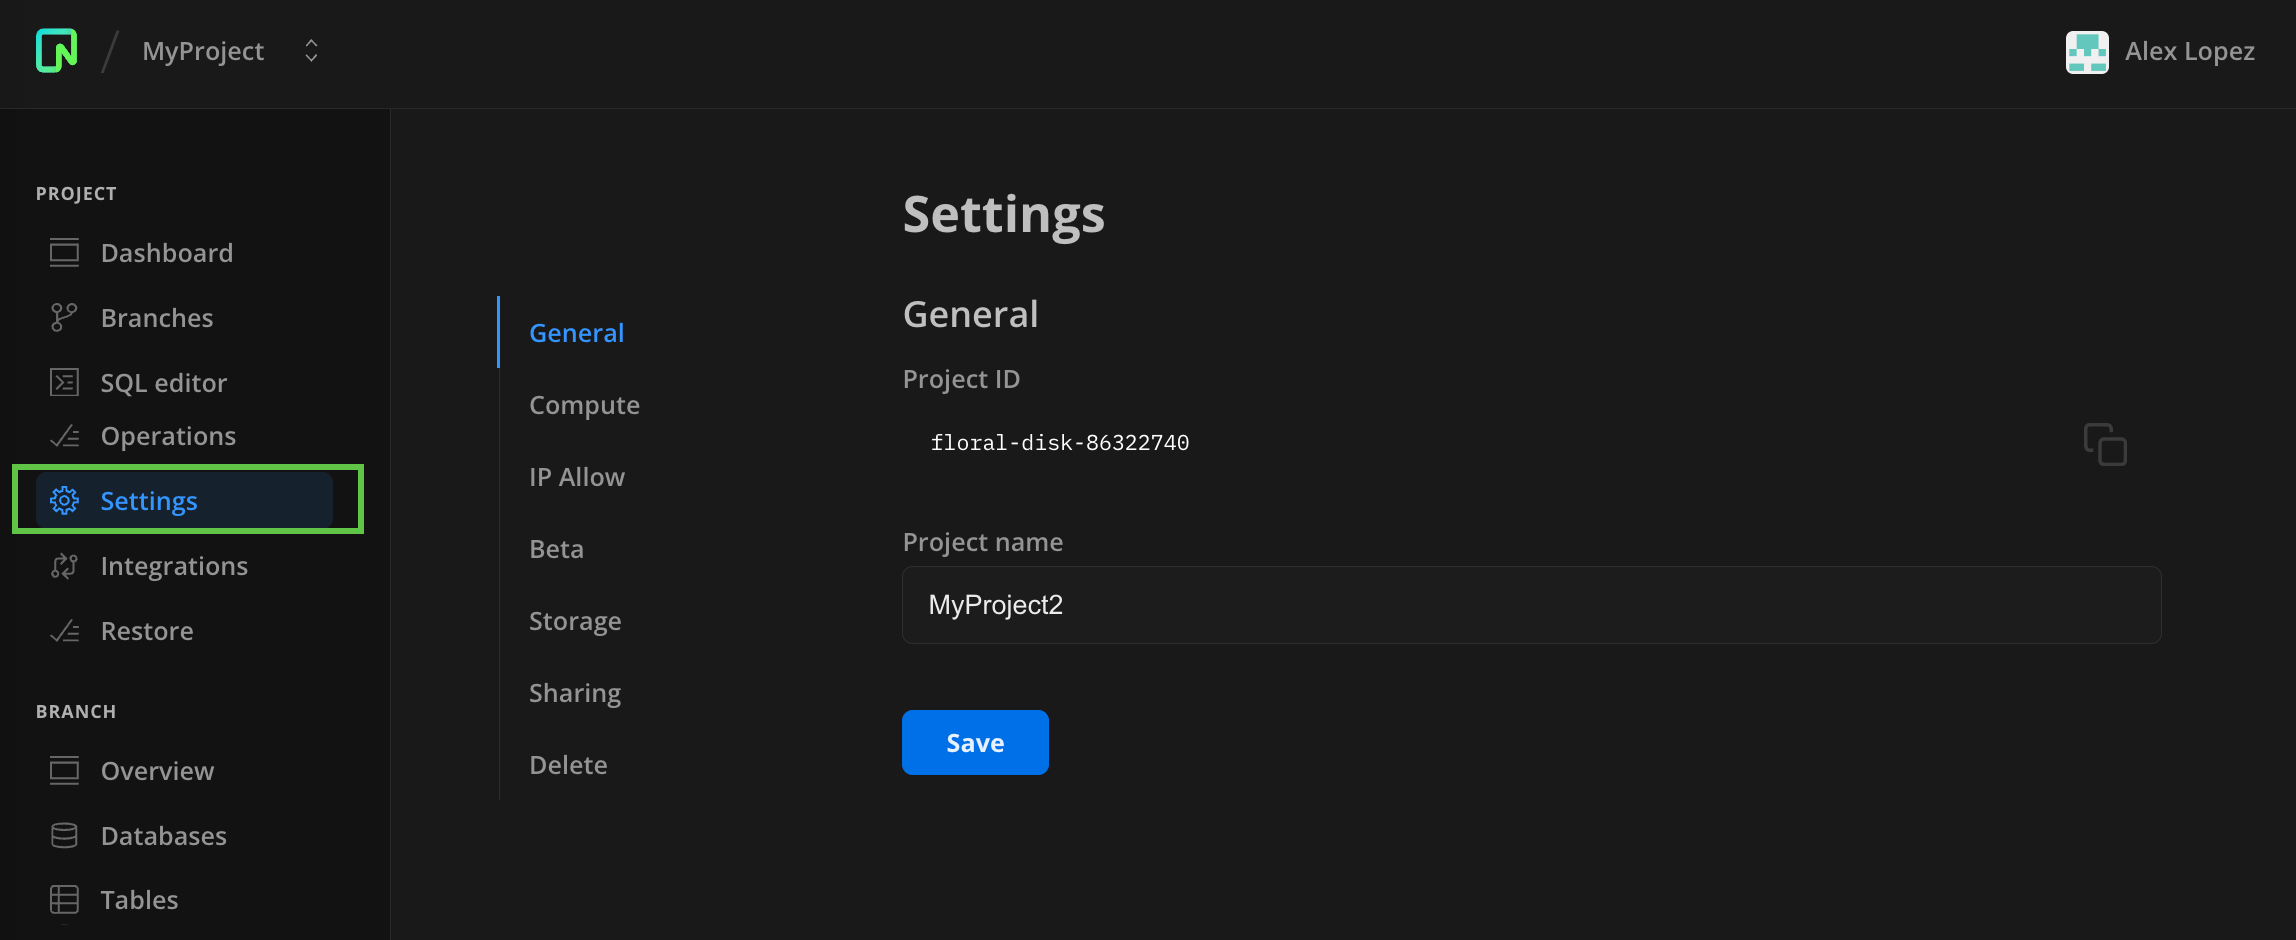
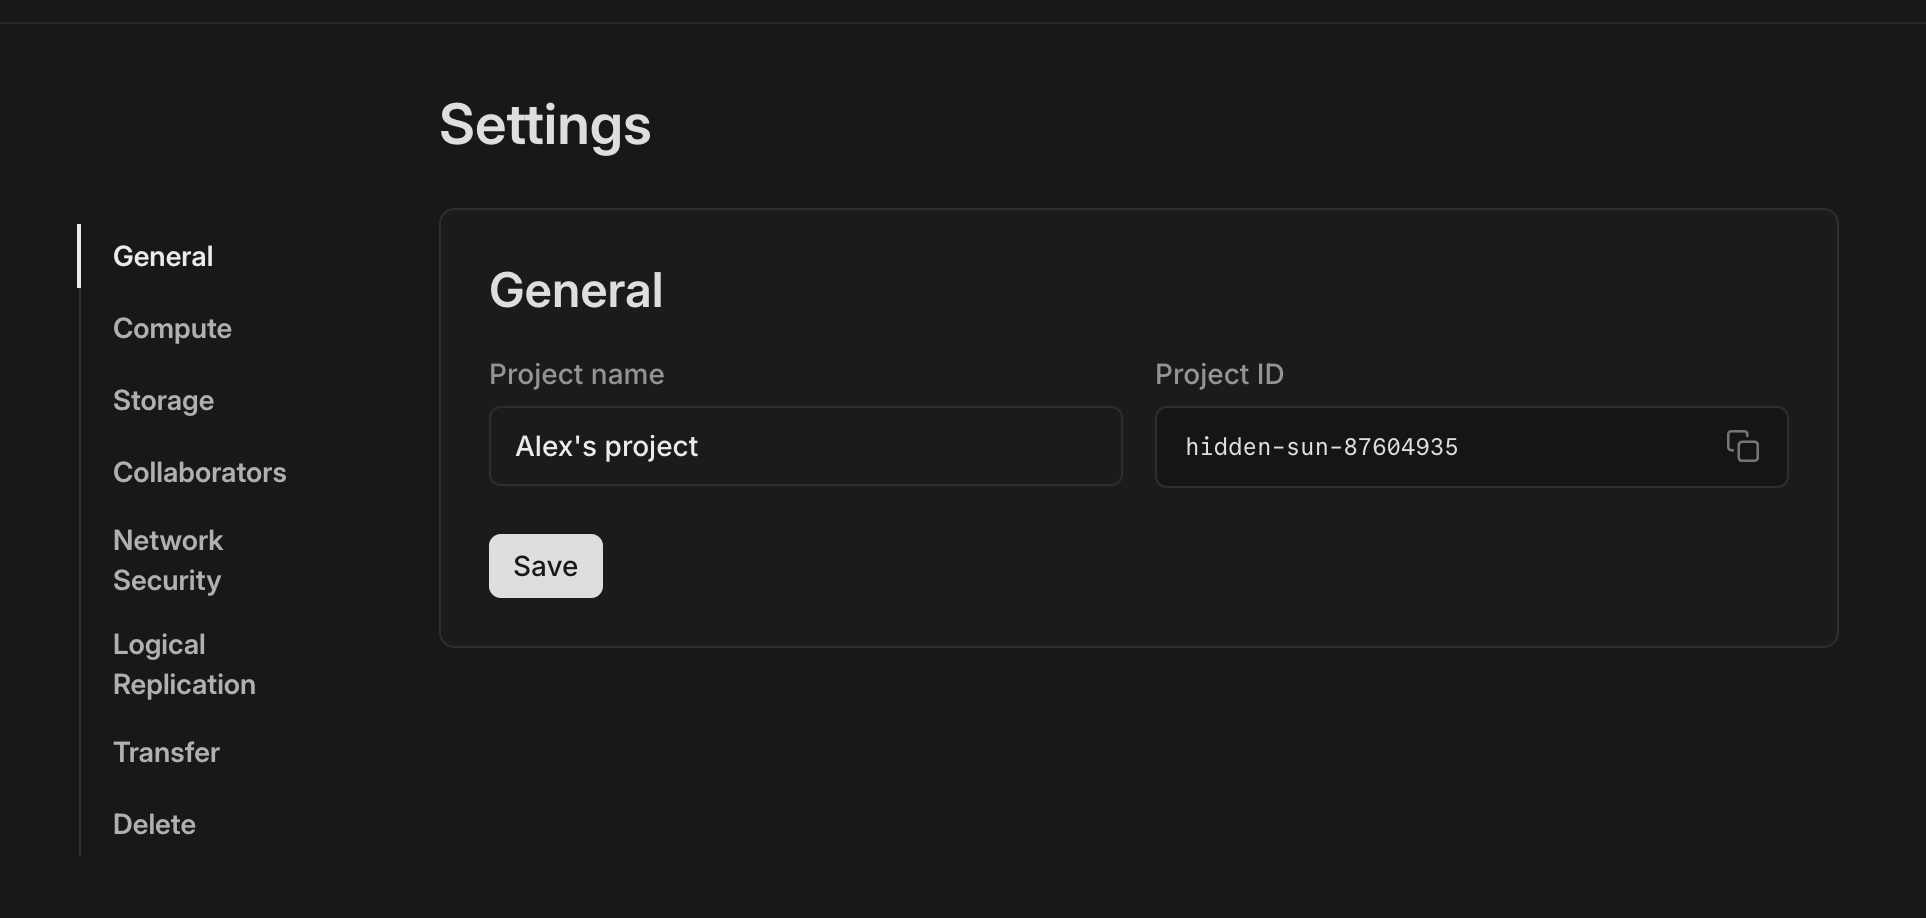
docs: project page update

diff --git a/content/docs/manage/projects.md b/content/docs/manage/projects.md
@@ -8,15 +8,7 @@ redirectFrom:
 updatedOn: '2024-12-13T21:17:10.767Z'
 ---
 
-With Neon, everything starts with the project. It is the top-level object in the [Neon object hierarchy](/docs/manage/overview). A project can hold as many databases and branches as your application or workflow needs. However, [plan limits](/docs/introduction/plans) define how many projects you can create.
-
-Learn more about projects and how to manage them in these sections:
-
-- [Default resources](#default-resources)
-- [Project Settings](#about-the-settings-page)
-- [Basic actions](#basic-actions)
-- [Advanced settings](#advanced-settings)
-- [Manage projects from the API](#manage-projects-with-the-neon-api)
+With Neon, everything starts with the project. It is the top-level object in the [Neon object hierarchy](/docs/manage/overview). A project can hold as many branches, databases, and roles as your application or workflow needs. Your [Neon Plan](/docs/introduction/plans) determines how many projects you can create and resource limits within those projects.
 
 ## Default resources
 
@@ -24,139 +16,71 @@ When you add a new project, Neon creates the following resources by default:
 
 - A default branch called `main`. You can create child branches from the default branch or from any previously created branch. For more information, see [Manage branches](/docs/manage/branches).
 - A single primary read-write compute. This is the compute associated with the branch. For more information, see [Manage computes](/docs/manage/endpoints).
-- A Postgres database that resides on the project's default branch. If you ddid not specify your own database name when creating the project, the database created is named `neondb`.
+- A Postgres database that resides on the project's default branch. If you did not specify your own database name when creating the project, the database created is named `neondb`.
 - A Postgres role that is named for your database. For example, if your database is named `neondb`, the project is created with a default role named `neondb_owner`.
 
-## About the Settings page
+## Create a project
 
-Once you open a project, you can use the **Settings** page to manage that particular project and configure any defaults.
-
-![Project Settings page](/docs/manage/settings_page.png)
-
-You can tab between these sections:
-
-- **General** &#8212; Change the name of your project or copy the project ID.
-- **Compute** &#8212; Set the scale to zero and sizing defaults for any new computes you create when branching.
-- **Storage** &#8212; Choose how long Neon maintains a history of changes for all branches.
-- **Sharing** &#8212; Let other users access your project's databases.
-- **Delete** &#8212; Use with care! This action deletes your entire project and all its objects, and is irreversible.
-
-## Basic actions
-
-Here are some basic actions you can take to add or manage projects:
-
-- [Create a project](#create-a-project)
-- [View projects](#view-projects)
-- [Change a project name](#change-the-name-or-copy-the-id-of-your-project)
-- [Delete a project](#delete-a-project)
-- [Invite collaborators to a project](#invite-collaborators-to-a-project)
-
-### Create a project
-
-The following instructions describe how to create additional Neon projects. If you are creating your very first Neon project, refer to the instructions in [Sign up](/docs/get-started-with-neon/signing-up).
+The following instructions describe how to create additional Neon projects. If you are creating your very first Neon project, refer to the instructions in [Playing with Neon](/docs/get-started-with-neon/signing-up).
 
 To create a Neon project:
 
 1. Navigate to the [Neon Console](https://console.neon.tech).
 2. Click **New Project**.
-3. Specify values for **Project Name**, **Postgres version**, **Cloud Service Provider**, and **Region**. Project names are limited to 64 characters. If you are a paying user, you can specify **Compute size** settings when creating a project. The settings you specify become the default settings for computes that you add to your project when creating [branches](/docs/manage/branches#create-a-branch) or [read replicas](/docs/guides/read-replica-guide).
+3. Specify values for **Project Name**, **Postgres version**, **Cloud Service Provider**, and **Region**. Project names are limited to 64 characters. You can also specify **Compute size** settings when creating a project. The settings you specify become the default settings for computes that you add to your project when creating [branches](/docs/manage/branches#create-a-branch) or [read replicas](/docs/guides/read-replica-guide).
 
    - Neon supports fixed-size computes and autoscaling. For more information, see [Compute size and autoscaling configuration](/docs/manage/endpoints#compute-size-and-autoscaling-configuration).
    - The scale to zero setting determines whether a compute is automatically suspended after a period of inactivity. For more information, see [Scale to zero configuration](/docs/manage/endpoints#scale-to-zero-configuration).
 
-4. Optionally, select **More options** to specify a name for your default branch. The default name is `main`.
-5. Click **Create Project**.
+4. Click **Create Project**.
 
-After creating a project, you are presented with a dialog that provides your connection details for your database. The connection details include your password.
+After creating a project, you are directed to the Neon Quickstart.
 
 <Admonition type="tip">
-Similar to **docs.new** for instantly creating Google Docs or **repo.new** for adding new GitHub repositories, you can use [pg.new](https://pg.new) to create a new Neon Postgres project. Simply visit [pg.new](https://pg.new) and you'll be taken straight to the **Create project** page where you can create your new project.
+Similar to **docs.new** for instantly creating Google Docs or **repo.new** for adding new GitHub repositories, you can use [pg.new](https://pg.new) to create a new Neon Postgres project. Simply visit [pg.new](https://pg.new) and you'll be taken directly to the **Create project** page where you can create your new project.
 </Admonition>
 
-### View projects
+## View projects
 
 To view your projects:
 
 1. Navigate to the [Neon Console](https://console.neon.tech).
-1. Select **Home** or the Neon logo at the top left of the Console.
+1. From the breadcrumb navigation menu at the top-left of the console, select your personal or organization account.
 1. The **Projects** page lists your projects, including any projects that have been shared with you.
 
-### Change the name or copy the ID of your project
+## Project settings
 
-You are permitted to change the name of your project at any point. The project ID is permanent.
+Once you open a project, you can use the **Settings** page to manage your project and configure any defaults.
 
-To edit a Neon project:
+![Project Settings page](/docs/manage/settings_page.png)
 
-1. Navigate to the [Neon Console](https://console.neon.tech).
-2. Select the project that you want to edit.
-3. Select **Settings**.
-4. Select **General**.
-5. Make your changes and click **Save**.
+The **Settings** page includes these sub-pages:
 
-### Delete a project
+- **General** — Change the name of your project or copy the project ID.
+- **Compute** — Set the scale to zero and sizing defaults for any new computes you create when branching.
+- **Storage** — Choose how long Neon maintains a history of changes for all branches.
+- **Collaborators** — Let other users access your project's databases.
+- **Network Security** — Configure Neon's IP and Private Networking features for secure access.
+- **Logical Replication** — Enable logical replication to replicate data from your Neon project to external data services and platforms.
+- **Transfer** — Transfer your project from a personal account to a Neon organization you are a member of.
+- **Delete** — Use with care! This action deletes your entire project and all its objects, and is irreversible.
 
-Deleting a project is a permanent action, which also deletes any computes, branches, databases, and roles that belong to the project.
+### General project settings
 
-To delete a project:
+On the **General** page, you are permitted to change the name of your project or copy the project ID. The project ID is permanent and cannot be changed.
 
-1. Navigate to the [Neon Console](https://console.neon.tech).
-2. Select the project that you want to delete.
-3. Select **Project settings**.
-4. Select **Delete**.
-5. Click **Delete project.**
-6. On the confirmation dialog, click **Delete**.
+### Change your project's default compute settings
 
-<Admonition type="important">
-If you are any of Neon's paid plans, such as our Launch or Scale plan, deleting all your Neon projects won't stop monthly billing. To avoid charges, you also need to downgrade to the Free plan. You can do so from the [Billing](https://console.neon.tech/app/billing#change_plan) page in the Neon Console.
-</Admonition>
-
-### Invite collaborators to a project
-
-Neon's project collaboration feature allows you to invite external Neon accounts to collaborate on a Neon project.
-
-<Admonition type="note">
-Organization members cannot be added as collaborators to organization-owned projects since they already have access to all projects through their organization membership.
-</Admonition>
-
-To invite collaborators to a Neon project:
-
-1. In the Neon Console, select a project.
-1. Select **Project settings**.
-1. Select **Collaborators**.
-1. Select **Invite** and enter the email address of the account you want to collaborate with.
-1. Click **Invite**.
-
-The email you specify is added to the list of **Collaborators**. The Neon account associated with that email address is granted full access to the project, with the exception of privileges required to delete the project. This account can also invite other Neon users to the project. When that user logs in to Neon, the project they were invited to is listed on their **Projects** page under **Shared with you**.
-
-The costs associated with projects being collaborated on are charged to the Neon account that owns the project. For example, if you invite another Neon user account to a project you own, any usage incurred by that user within your project is billed to your Neon account, not theirs.
-
-For additional information, refer to our [Project collaboration guide](/docs/guides/project-collaboration-guide).
-
-## Advanced settings
-
-From the **Project settings** page, you can also set defaults or apply bulk changes across your Neon objects:
-
-- [Reset default compute size](#reset-the-default-compute-size)
-- [Configure history retention range](#configure-history-retention)
-- [Enable logical replication](#enable-logical-replication)
-- [Configure IP Allow](#configure-ip-allow)
-
-### Reset the default compute size
+You can change your project's default compute settings on the **Compute** page. 
 
 _Compute size_ is the number of Compute Units (CUs) assigned to a Neon compute. The number of CUs determines the processing capacity of the compute. One CU is equal to 1 vCPU with 4 GB of RAM. Currently, a Neon compute can have anywhere from .25 CUs to 56 CUs. Larger compute sizes will be supported in a future release.
 
-By default, new branches inherit the compute size from your first branch (i.e., `main`). However, there may be times when you want to reset this default. For example, if you want to create read replica computes, where each replica requires less compute per branch.
-
-To reset the default compute size, go to **Settings** > **Compute**.
+By default, new branches inherit the compute size from your first branch (i.e., `main`). However, there may be times when you want to configure this default.
 
 Neon supports fixed-size and autoscaling compute configurations.
 
 - **Fixed size:** Select a fixed compute size ranging from .25 CUs to 56 CUs. A fixed-size compute does not scale to meet workload demand.
 - **Autoscaling:** Specify a minimum and maximum compute size. Neon scales the compute size up and down within the selected compute size boundaries in response to the current load. Currently, the _Autoscaling_ feature supports a range of 1/4 (.25) CU to 16 CUs. The 1/4 CU and 1/2 CU settings are _shared compute_. For information about how Neon implements the _Autoscaling_ feature, see [Autoscaling](/docs/introduction/autoscaling).
-
-_Example: default minimum and maximum autoscale settings_
-
-![Default autoscaling min and max](/docs/manage/default_autoscale.png)
 
 ### Configure history retention
 
@@ -180,31 +104,31 @@ To configure the history retention period for a project:
 
 For more information about available plan limits, see [Neon plans](/docs/introduction/plans).
 
-## Enable logical replication
-
-Logical replication enables replicating data from your Neon databases to a variety of external destinations, including data warehouses, analytical database services, messaging platforms, event-streaming platforms, and external Postgres databases.
-
-<Admonition type="important">
-Enabling logical replication modifies the PostgreSQL `wal_level` configuration parameter, changing it from `replica` to `logical` for all databases in your Neon project. Once the `wal_level` setting is changed to `logical`, it cannot be reverted. Enabling logical replication also restarts all computes in your Neon project, meaning that active connections will be dropped and have to reconnect.
+<Admonition type="note">
+The Storage page also outlines Neon **Archive storage**** policy, if applicable to your Neon plan. For more information on this topic, see [Branch archiving](/docs/guides/branch-archiving).
 </Admonition>
 
-To enable logical replication in Neon:
+### Invite collaborators to a project
 
-1. Select your project in the Neon Console.
-2. On the Neon **Dashboard**, select **Settings**.
-3. Select **Logical Replication**.
-4. Click **Enable** to enable logical replication.
+Neon's project collaboration feature allows you to invite external Neon accounts to collaborate on a Neon project.
 
-You can verify that logical replication is enabled by running the following query:
+<Admonition type="note">
+Organization members cannot be added as collaborators to organization-owned projects since they already have access to all projects through their organization membership.
+</Admonition>
 
-```sql
-SHOW wal_level;
-wal_level
------------
-logical
-```
+To invite collaborators to a Neon project:
 
-After enabling logical replication, the next steps involve creating publications on your replication source database in Neon and configuring subscriptions on the destination system or service. To get started, refer to our [logical replication guides](/docs/guides/logical-replication-guide).
+1. In the Neon Console, select a project.
+1. Select **Project settings**.
+1. Select **Collaborators**.
+1. Select **Invite** and enter the email address of the account you want to collaborate with.
+1. Click **Invite**.
+
+The email you specify is added to the list of **Collaborators**. The Neon account associated with that email address is granted full access to the project, with the exception of privileges required to delete the project. This account can also invite other Neon users to the project. When that user logs in to Neon, the project they were invited to is listed on their **Projects** page under **Shared with you**.
+
+The costs associated with projects being collaborated on are charged to the Neon account that owns the project. For example, if you invite another Neon user account to a project you own, any usage incurred by that user within your project is billed to your Neon account, not theirs.
+
+For additional information, refer to our [Project collaboration guide](/docs/guides/project-collaboration-guide).
 
 ### Configure IP Allow
 
@@ -394,6 +318,49 @@ curl -X PATCH \
 </TabItem>
 
 </Tabs>
+
+### Enable logical replication
+
+Logical replication enables replicating data from your Neon databases to a variety of external destinations, including data warehouses, analytical database services, messaging platforms, event-streaming platforms, and external Postgres databases.
+
+<Admonition type="important">
+Enabling logical replication modifies the PostgreSQL `wal_level` configuration parameter, changing it from `replica` to `logical` for all databases in your Neon project. Once the `wal_level` setting is changed to `logical`, it cannot be reverted. Enabling logical replication also restarts all computes in your Neon project, meaning that active connections will be dropped and have to reconnect.
+</Admonition>
+
+To enable logical replication in Neon:
+
+1. Select your project in the Neon Console.
+2. On the Neon **Dashboard**, select **Settings**.
+3. Select **Logical Replication**.
+4. Click **Enable** to enable logical replication.
+
+You can verify that logical replication is enabled by running the following query:
+
+```sql
+SHOW wal_level;
+wal_level
+-----------
+logical
+```
+
+After enabling logical replication, the next steps involve creating publications on your replication source database in Neon and configuring subscriptions on the destination system or service. To get started, refer to our [logical replication guides](/docs/guides/logical-replication-guide).
+
+### Delete a project
+
+Deleting a project is a permanent action, which also deletes any computes, branches, databases, and roles that belong to the project.
+
+To delete a project:
+
+1. Navigate to the [Neon Console](https://console.neon.tech).
+2. Select the project that you want to delete.
+3. Select **Project settings**.
+4. Select **Delete**.
+5. Click **Delete project.**
+6. On the confirmation dialog, click **Delete**.
+
+<Admonition type="important">
+If you are any of Neon's paid plans, such as our Launch or Scale plan, deleting all your Neon projects won't stop monthly billing. To avoid charges, you also need to downgrade to the Free plan. You can do so from the [Billing](https://console.neon.tech/app/billing#change_plan) page in the Neon Console.
+</Admonition>
 
 ## Manage projects with the Neon API
 
